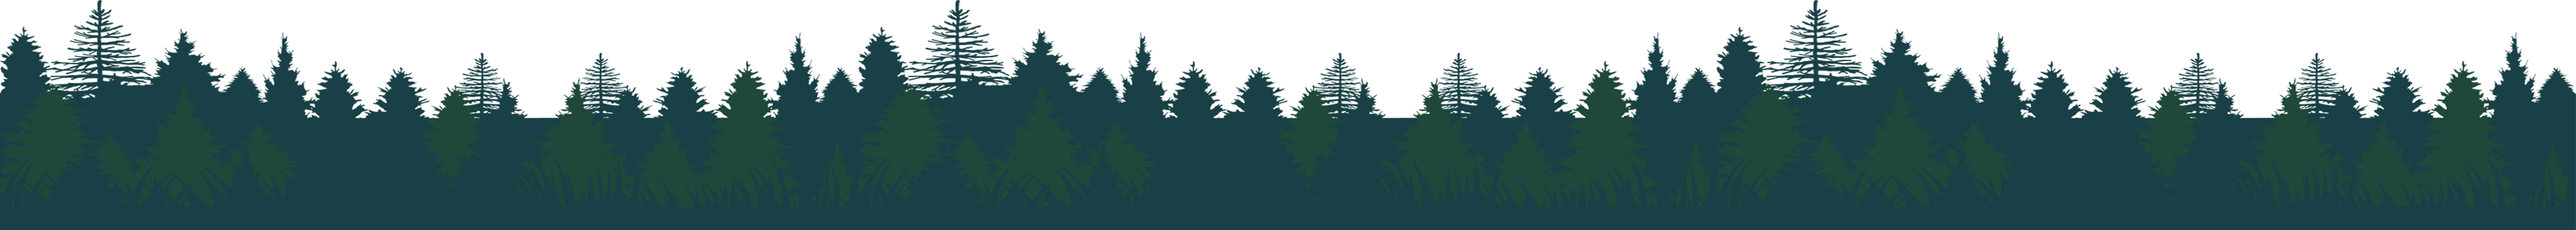
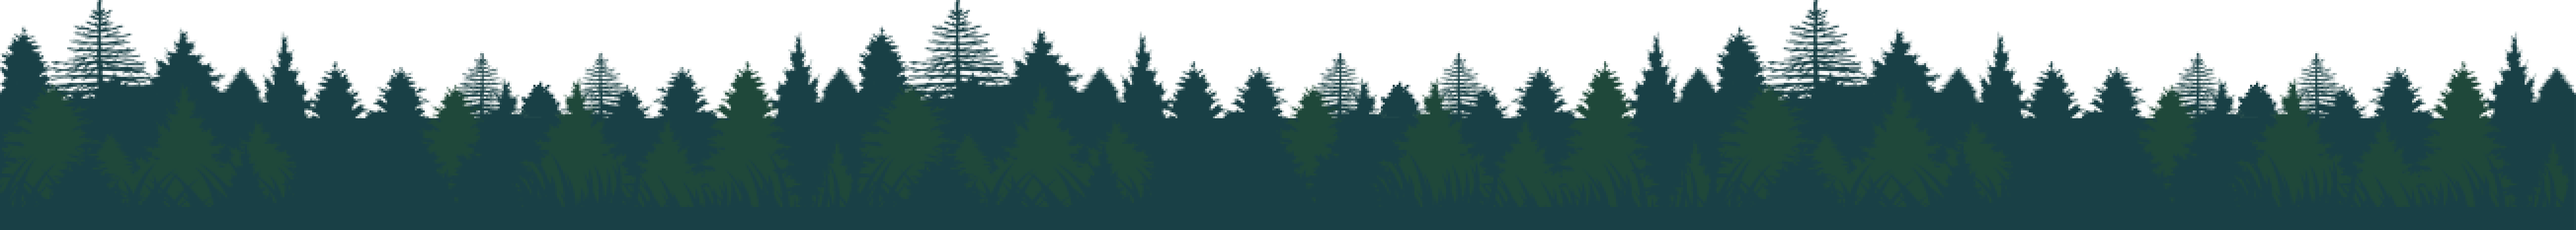
visual updates

Changed region(s): [[0.0, 0.0286, 1.0, 0.5143]]

diff --git a/css/style.css b/css/style.css
@@ -103,10 +103,20 @@ body{
 
 .trees{
     position: absolute;
-    bottom: -20px;
+    bottom: -5px;
     height: 350px;
+
     z-index: -1;
     animation: trees-animation 3s infinite linear;
+}
+
+.mountain-game{
+    position: absolute;
+    top: 200px;
+    width: 5612px;
+    height: 1000px;
+    z-index: -2;
+    animation: mountain-animation 24s infinite linear;
 }
 
 .cloud-game{
@@ -116,7 +126,15 @@ body{
     height: 450px;
     animation: clouds-animation 26s infinite linear;  
     z-index: -1;
+}
 
+.bg-clouds {
+    position: absolute;
+    top: 30px;
+    width: 4597px;
+    height: 582px;
+    z-index: -2;
+    animation: bgclouds 300s infinite linear;
 }
  
 
@@ -138,12 +156,12 @@ body{
 
 
 @keyframes ground-animation{
-    from {
-        right: -2000px;
+    from{
+        left: 0px;
     }
     to{
-        right: 0px;
-    }
+        left: -2000px;
+    }  
 }
 
 @keyframes trees-animation{
@@ -154,8 +172,6 @@ body{
         left: -1304px;
     }
 }
-
-
 
 @keyframes pipe-animation {
     from {
@@ -174,6 +190,24 @@ body{
         right:  100%;
     }
 }
+
+@keyframes mountain-animation{
+    from{
+        left: 0px; 
+    }
+    to{
+        left: -1980px;
+    }
+}
+
+@keyframes bgclouds{
+    from{
+        left: 0px;
+    }
+    to{
+        left: -2298px;
+    }
+} 
 
 @keyframes mario-animation{
     0% {

diff --git a/js/script.js b/js/script.js
@@ -3,6 +3,8 @@ const pipe = document.querySelector(".pipe-game");
 const clouds = document.querySelector(".cloud-game");
 const ground = document.querySelector(".ground-game");
 const trees = document.querySelector(".trees");
+const mountain = document.querySelector(".mountain-game");
+const bgclouds= document.querySelector(".bg-clouds");
 const titlescreen = document.querySelector(".title-screen");
 
 //TITLE-SCREEN
@@ -46,6 +48,10 @@ const loopGame = setInterval(() => {
     ground.classList.add("animation-stop");
 
     trees.classList.add("animation-stop");
+
+    mountain.classList.add("animation-stop");
+
+    bgclouds.classList.add("animation-stop");
     
     clearInterval(loopGame);
   }

diff --git a/index.html b/index.html
@@ -21,7 +21,9 @@
             </div>
 
             <img src="./Images/clouds-gamer.png" class="cloud-game" />
+            <img src="./Images/bigclouds.png" class="bg-clouds"/>
             <img src="./Images/Trees 1.png" class="trees"/>
+            <img src="./Images/montain.png" class="mountain-game"/>
             <img src="./Images/super-mario.gif" class="super-mario" />
             <img src="./Images/pipe-game.png" class="pipe-game animation-stop" />   
         </div>
